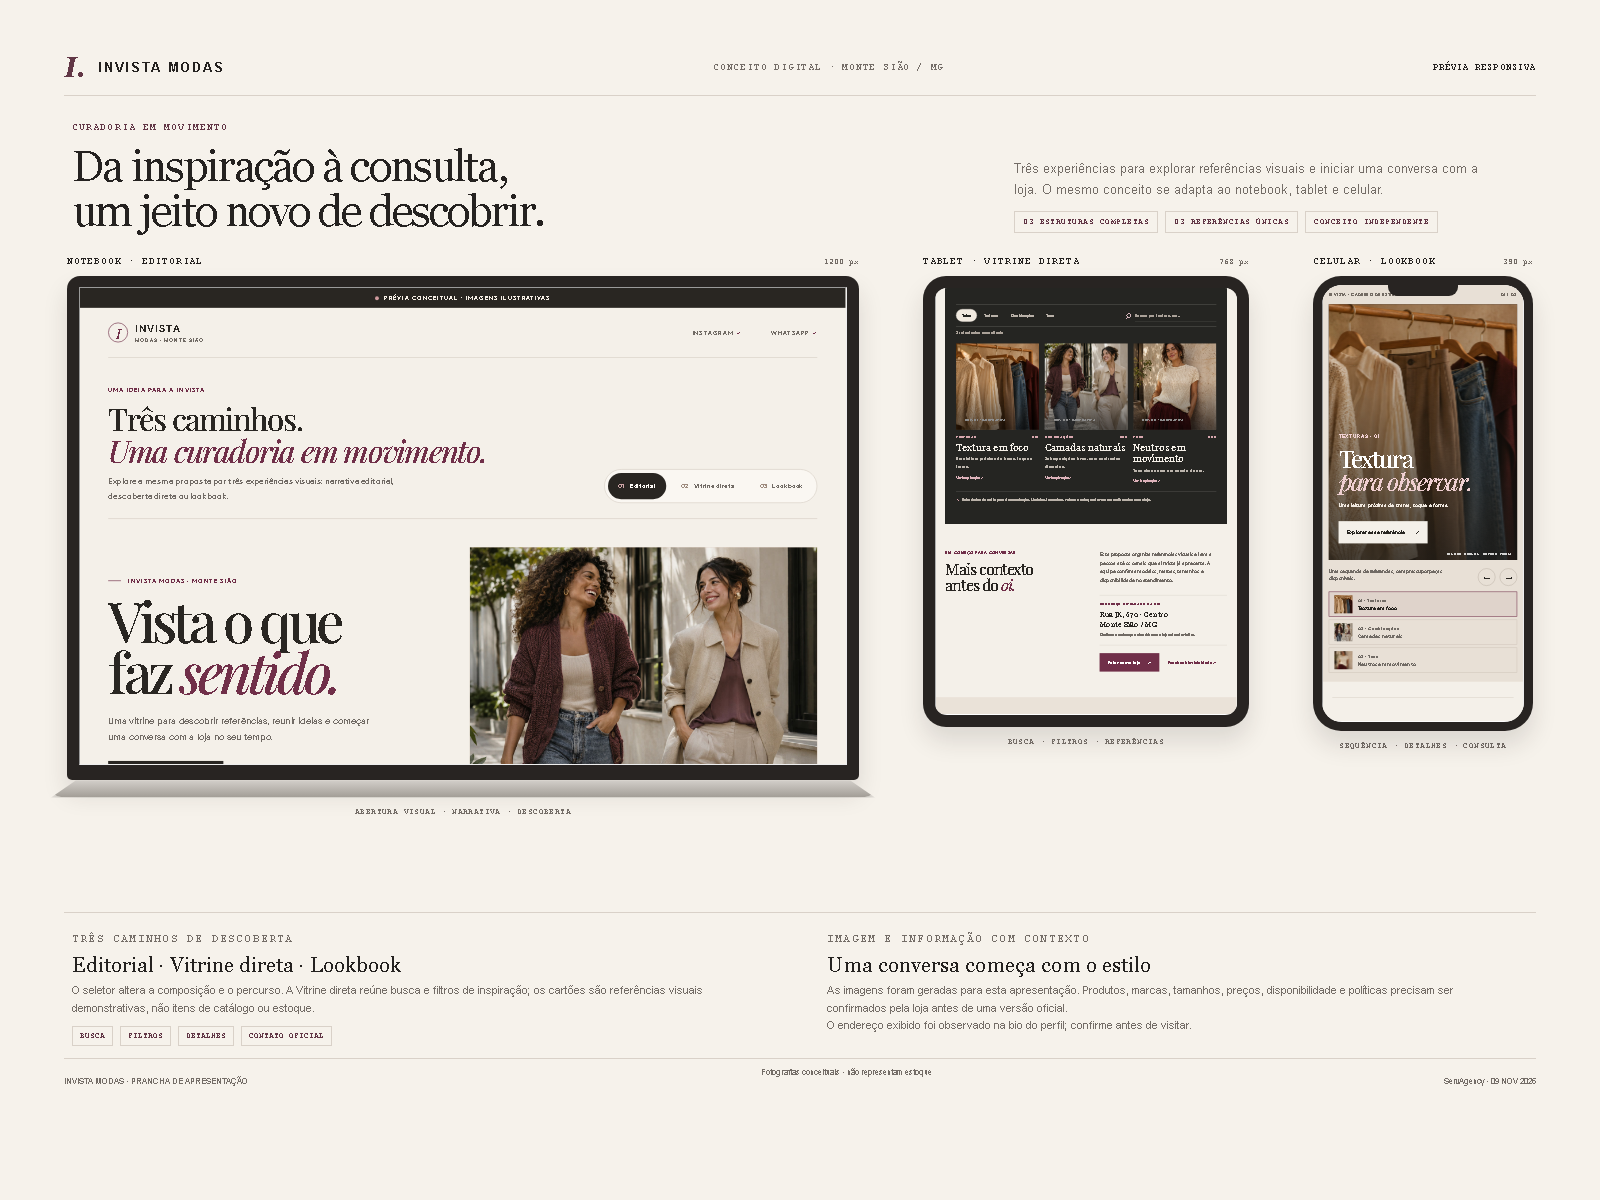
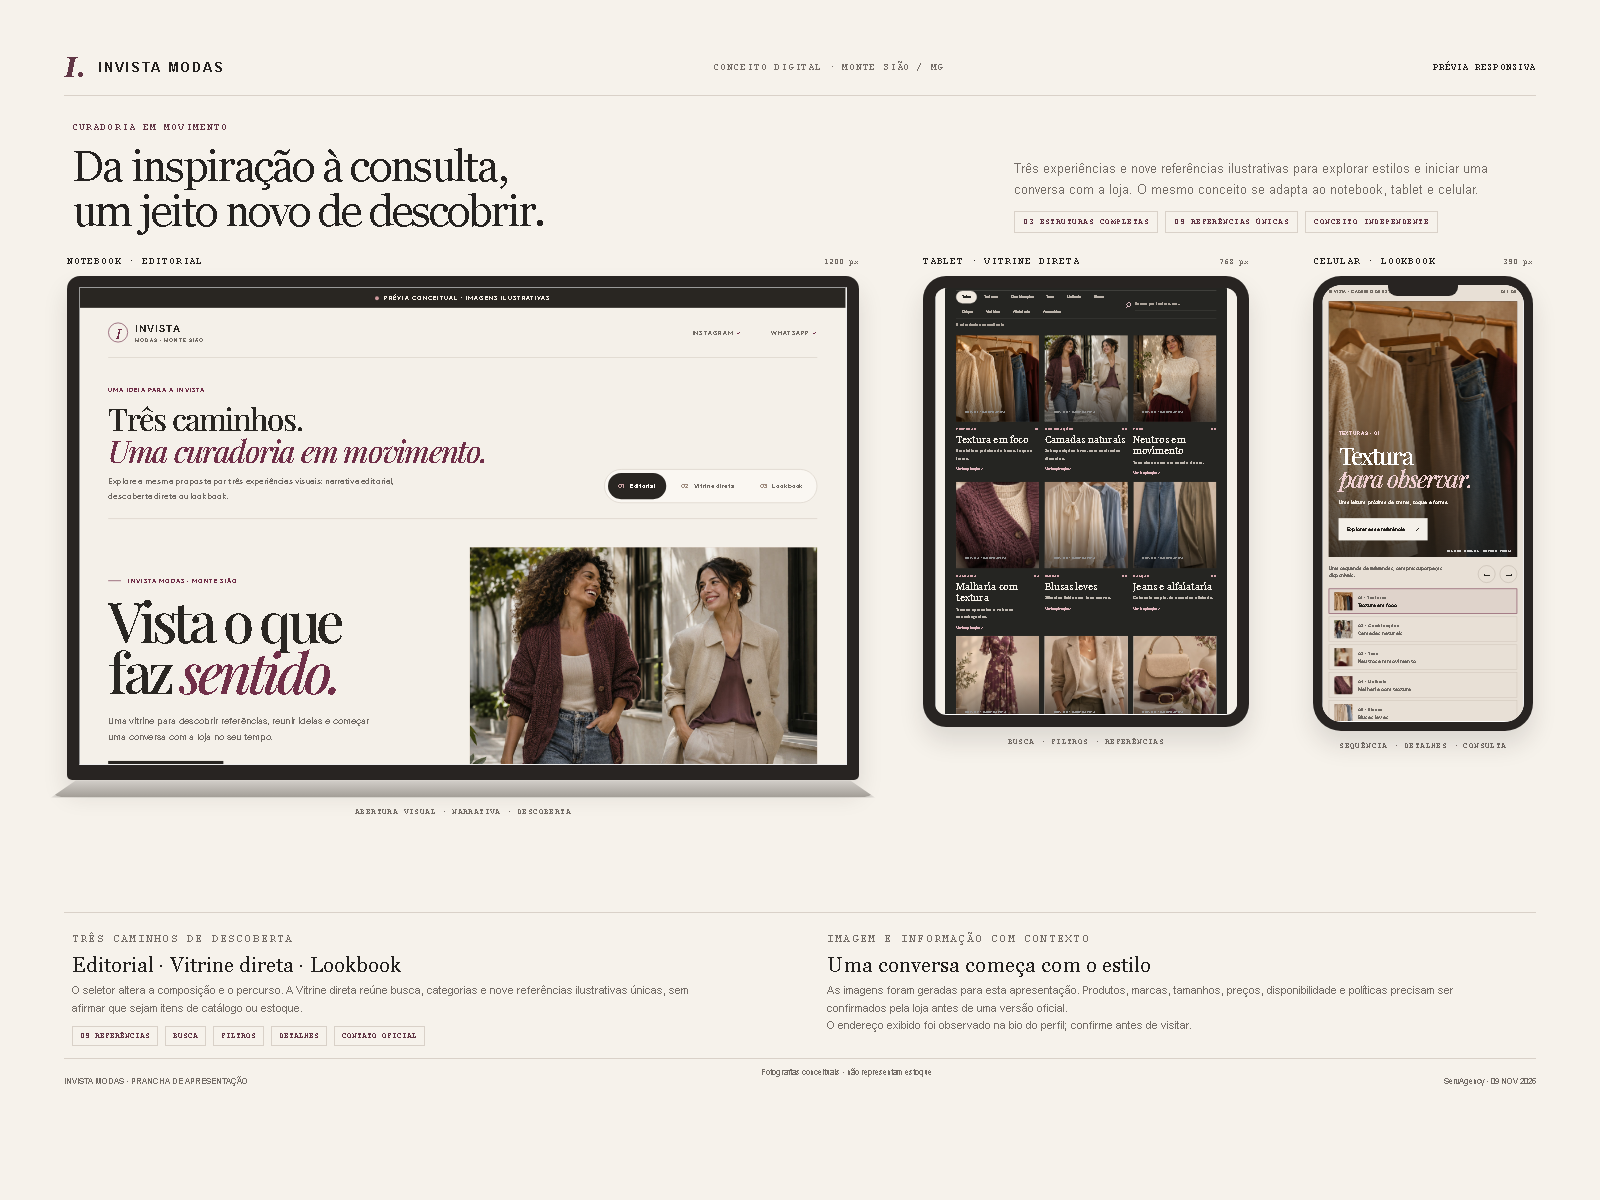
Expand Invista concept catalog

diff --git a/app.js b/app.js
@@ -5,6 +5,7 @@ const references = [
     title: "Textura em foco",
     category: "Texturas",
     image: "assets/editorial-rail.jpg",
+    sceneTitle: "Textura<br><em>para observar.</em>",
     alt: "Peças de roupa conceituais em tons creme, areia, jeans e ameixa em um cabideiro",
     description: "Um estudo visual de materiais, volumes e superfícies que podem inspirar uma escolha. A imagem é ilustrativa e não mostra produtos confirmados pela Invista.",
     short: "Uma leitura próxima de trama, toque e forma."
@@ -15,6 +16,7 @@ const references = [
     title: "Camadas naturais",
     category: "Combinações",
     image: "assets/campaign-street.jpg",
+    sceneTitle: "Camadas<br><em>em encontro.</em>",
     alt: "Duas mulheres adultas em combinações contemporâneas de tons neutros, fotografia conceitual",
     description: "Uma inspiração sobre como sobrepor peças e misturar texturas em uma composição cotidiana. A combinação não representa um look ou estoque real da loja.",
     short: "Sobreposições leves, com contrastes discretos."
@@ -25,9 +27,76 @@ const references = [
     title: "Neutros em movimento",
     category: "Tons",
     image: "assets/lookbook-portrait.jpg",
+    sceneTitle: "Neutros<br><em>em movimento.</em>",
     alt: "Mulher adulta em blusa de tricô creme e saia ameixa, imagem gerada para referência visual",
     description: "Uma referência de paleta que aproxima tons claros de um acento ameixa. Imagem gerada para este estudo, sem vínculo com peças ou marcas comercializadas pela Invista.",
     short: "Tons claros com um acento de cor."
+  },
+  {
+    id: "malharia",
+    number: "04",
+    title: "Malharia com textura",
+    category: "Malharia",
+    image: "assets/malharia.jpg",
+    sceneTitle: "Malharia<br><em>em detalhe.</em>",
+    alt: "Cardigãs conceituais em tricô ameixa e creme, composição de produto ilustrativa",
+    description: "Uma referência de malharia que destaca ponto, volume e contraste de cor. A imagem é conceitual e não confirma peças da loja.",
+    short: "Tramas aparentes e volumes aconchegantes."
+  },
+  {
+    id: "blusas",
+    number: "05",
+    title: "Blusas leves",
+    category: "Blusas",
+    image: "assets/blusas.jpg",
+    sceneTitle: "Blusas<br><em>que respiram.</em>",
+    alt: "Blusas conceituais em tons de creme e azul claro penduradas em arara",
+    description: "Uma sugestão visual de blusas fluidas em tons suaves. Modelos e disponibilidade precisam ser consultados diretamente com a Invista.",
+    short: "Silhuetas fluidas em tons suaves."
+  },
+  {
+    id: "calcas",
+    number: "06",
+    title: "Jeans e alfaiataria",
+    category: "Calças",
+    image: "assets/calcas.jpg",
+    sceneTitle: "Linhas<br><em>do cotidiano.</em>",
+    alt: "Calças conceituais jeans e de alfaiataria em composição sobre fundo claro",
+    description: "Uma referência de caimento amplo para explorar linhas casuais e mais alinhadas. Não representa produto ou grade de tamanhos confirmada.",
+    short: "Caimento amplo, do casual ao alinhado."
+  },
+  {
+    id: "vestidos",
+    number: "07",
+    title: "Vestido em ameixa",
+    category: "Vestidos",
+    image: "assets/vestidos.jpg",
+    sceneTitle: "Vestido<br><em>em destaque.</em>",
+    alt: "Vestido longo floral ameixa em manequim, imagem conceitual",
+    description: "Uma ideia de composição com estampa floral e cor profunda. A peça é ilustrativa e não confirma modelos disponíveis na loja.",
+    short: "Estampa floral com cor de presença."
+  },
+  {
+    id: "alfaiataria",
+    number: "08",
+    title: "Alfaiataria natural",
+    category: "Alfaiataria",
+    image: "assets/alfaiataria.jpg",
+    sceneTitle: "Alfaiataria<br><em>sem rigidez.</em>",
+    alt: "Composição conceitual com blazer claro e calça verde oliva",
+    description: "Uma referência de sobreposição leve com tons naturais. Confirme com a equipe da Invista se existem opções semelhantes.",
+    short: "Uma terceira peça em tons naturais."
+  },
+  {
+    id: "acessorios",
+    number: "09",
+    title: "Acessórios em harmonia",
+    category: "Acessórios",
+    image: "assets/acessorios.jpg",
+    sceneTitle: "Pequenos<br><em>acentos.</em>",
+    alt: "Bolsa, cinto e lenço em tons neutros e ameixa, composição ilustrativa",
+    description: "Uma composição conceitual de acessórios para explorar cor e acabamento. Marcas, produtos e disponibilidade não foram confirmados pela loja.",
+    short: "Acentos discretos para completar a composição."
   }
 ];
 
@@ -50,7 +119,7 @@ function cardMarkup(reference, mode = "editorial") {
     <article class="inspiration-card ${modeClass}" data-reference-card="${reference.id}">
       <button class="reference-open" type="button" data-open-ref="${reference.id}" aria-label="Abrir detalhes da inspiração: ${reference.title}">
         <span class="card-image"><img src="${reference.image}" alt="${reference.alt}" loading="lazy"><span class="card-number">REF. ${reference.number} · ILUSTRATIVA</span></span>
-        <span class="card-meta"><span>${reference.category}</span><span>0${reference.number}</span></span>
+        <span class="card-meta"><span>${reference.category}</span><span>${reference.number}</span></span>
         <span class="card-title">${reference.title}</span>
         <span class="card-desc">${reference.short}</span>
         <span class="card-action">Ver inspiração ↗</span>
@@ -158,13 +227,9 @@ function setScene(index) {
     image.alt = item.alt;
     image.classList.remove("is-changing");
   }, matchMedia("(prefers-reduced-motion: reduce)").matches ? 0 : 100);
-  document.querySelector("#lookbook-counter").textContent = `0${activeScene + 1} / 0${references.length}`;
+  document.querySelector("#lookbook-counter").textContent = `${String(activeScene + 1).padStart(2, "0")} / ${String(references.length).padStart(2, "0")}`;
   document.querySelector("#lookbook-kicker").textContent = `${item.category.toUpperCase()} · 0${activeScene + 1}`;
-  document.querySelector("#lookbook-title").innerHTML = [
-    "Textura<br><em>para observar.</em>",
-    "Camadas<br><em>em encontro.</em>",
-    "Neutros<br><em>em movimento.</em>"
-  ][activeScene];
+  document.querySelector("#lookbook-title").innerHTML = item.sceneTitle;
   document.querySelector("#lookbook-description").textContent = item.short;
   document.querySelector(".scene-copy [data-open-ref]")?.setAttribute("data-open-ref", item.id);
   document.querySelector(".scene-copy .button")?.setAttribute("aria-label", `Explorar a referência ${item.title}`);

diff --git a/arte/prancha.html b/arte/prancha.html
@@ -11,13 +11,13 @@
 <body>
 <main class="board">
  <header class="head"><span class="mark">I.</span><span class="brand">INVISTA MODAS</span><span class="context">CONCEITO DIGITAL · MONTE SIÃO / MG</span><span class="concept">PRÉVIA RESPONSIVA</span></header>
- <section class="intro"><div><p class="eyebrow">Curadoria em movimento</p><h1>Da inspiração à consulta,<br>um jeito novo de descobrir.</h1></div><div><p class="intro-copy">Três experiências para explorar referências visuais e iniciar uma conversa com a loja. O mesmo conceito se adapta ao notebook, tablet e celular.</p><div class="tags"><span>03 ESTRUTURAS COMPLETAS</span><span>03 REFERÊNCIAS ÚNICAS</span><span>CONCEITO INDEPENDENTE</span></div></div></section>
+ <section class="intro"><div><p class="eyebrow">Curadoria em movimento</p><h1>Da inspiração à consulta,<br>um jeito novo de descobrir.</h1></div><div><p class="intro-copy">Três experiências e nove referências ilustrativas para explorar estilos e iniciar uma conversa com a loja. O mesmo conceito se adapta ao notebook, tablet e celular.</p><div class="tags"><span>03 ESTRUTURAS COMPLETAS</span><span>09 REFERÊNCIAS ÚNICAS</span><span>CONCEITO INDEPENDENTE</span></div></div></section>
  <section class="devices" aria-label="Demonstração em três telas">
   <article class="device laptop"><div class="device-label"><strong>Notebook · Editorial</strong><span>1200 px</span></div><div class="shell"><div class="screen"><iframe title="Direção Editorial da Invista em notebook" src="../index.html" loading="eager"></iframe></div></div><div class="base"></div><p class="caption">ABERTURA VISUAL · NARRATIVA · DESCOBERTA</p></article>
   <article class="device tablet"><div class="device-label"><strong>Tablet · Vitrine direta</strong><span>768 px</span></div><div class="shell"><div class="screen"><iframe title="Vitrine direta da Invista em tablet" data-direction="loja" src="../index.html#referencias" loading="eager"></iframe></div></div><p class="caption">BUSCA · FILTROS · REFERÊNCIAS</p></article>
   <article class="device phone"><div class="device-label"><strong>Celular · Lookbook</strong><span>390 px</span></div><div class="shell"><span class="notch"></span><div class="screen"><iframe title="Lookbook da Invista em celular" data-direction="lookbook" src="../index.html#referencias" loading="eager"></iframe></div></div><p class="caption">SEQUÊNCIA · DETALHES · CONSULTA</p></article>
  </section>
- <section class="bottom"><div><p class="eyebrow">Três caminhos de descoberta</p><h2>Editorial · Vitrine direta · Lookbook</h2><p>O seletor altera a composição e o percurso. A Vitrine direta reúne busca e filtros de inspiração; os cartões são referências visuais demonstrativas, não itens de catálogo ou estoque.</p><div class="features"><span>BUSCA</span><span>FILTROS</span><span>DETALHES</span><span>CONTATO OFICIAL</span></div></div><div><p class="eyebrow">Imagem e informação com contexto</p><h2>Uma conversa começa com o estilo</h2><p>As imagens foram geradas para esta apresentação. Produtos, marcas, tamanhos, preços, disponibilidade e políticas precisam ser confirmados pela loja antes de uma versão oficial.</p><p class="tiny">O endereço exibido foi observado na bio do perfil; confirme antes de visitar.</p></div></section>
+ <section class="bottom"><div><p class="eyebrow">Três caminhos de descoberta</p><h2>Editorial · Vitrine direta · Lookbook</h2><p>O seletor altera a composição e o percurso. A Vitrine direta reúne busca, categorias e nove referências ilustrativas únicas, sem afirmar que sejam itens de catálogo ou estoque.</p><div class="features"><span>09 REFERÊNCIAS</span><span>BUSCA</span><span>FILTROS</span><span>DETALHES</span><span>CONTATO OFICIAL</span></div></div><div><p class="eyebrow">Imagem e informação com contexto</p><h2>Uma conversa começa com o estilo</h2><p>As imagens foram geradas para esta apresentação. Produtos, marcas, tamanhos, preços, disponibilidade e políticas precisam ser confirmados pela loja antes de uma versão oficial.</p><p class="tiny">O endereço exibido foi observado na bio do perfil; confirme antes de visitar.</p></div></section>
  <footer class="footer"><span>INVISTA MODAS · PRANCHA DE APRESENTAÇÃO</span><span>Fotografias conceituais · não representam estoque</span><span>ServAgency · 09 NOV 2026</span></footer>
 </main>
 <script>

diff --git a/index.html b/index.html
@@ -70,18 +70,18 @@
 
         <section class="editorial-selection section-wrap" data-collection-target data-anchor="explorar">
           <div class="section-heading">
-            <div><p class="eyebrow">TRÊS REFERÊNCIAS · SEM REPETIÇÕES</p><h2>Um olhar para<br><em>combinar.</em></h2></div>
-            <p>Uma seleção ilustrativa de texturas e combinações. Cada imagem é conceitual e não confirma produto, marca ou disponibilidade na Invista.</p>
+            <div><p class="eyebrow">NOVE REFERÊNCIAS · SEM REPETIÇÕES</p><h2>Um olhar para<br><em>combinar.</em></h2></div>
+            <p>Explore nove referências ilustrativas por categoria. Cada imagem é conceitual e não confirma produto, marca ou disponibilidade na Invista.</p>
           </div>
           <div class="editorial-grid" id="editorial-cards"></div>
         </section>
       </section>
 
       <section class="design-view direct-view" id="view-loja" role="tabpanel" aria-labelledby="tab-loja" data-design-view="loja" hidden>
-        <div class="direct-topline"><span>INVISTA MODAS</span><span>REFERÊNCIAS VISUAIS · 01—03</span></div>
+        <div class="direct-topline"><span>INVISTA MODAS</span><span>REFERÊNCIAS VISUAIS · 01—09</span></div>
         <section class="direct-intro" aria-labelledby="direct-title">
           <div><p class="eyebrow">ENCONTRE UM CAMINHO</p><h2 id="direct-title">Qual estilo<br>chama <em>você?</em></h2></div>
-          <p>Busque uma referência ou explore por sensação. O protótipo demonstra uma navegação possível sem inventar catálogo ou estoque.</p>
+          <p>Explore nove referências únicas por categoria, filtre por peça e busque por estilo. Modelos, tamanhos e disponibilidade ainda precisam ser confirmados com a loja.</p>
         </section>
         <section class="direct-catalog" data-collection-target data-anchor="explorar" aria-label="Explorar referências ilustrativas">
           <div class="catalog-toolbar">
@@ -97,7 +97,7 @@
 
       <section class="design-view lookbook-view" id="view-lookbook" role="tabpanel" aria-labelledby="tab-lookbook" data-design-view="lookbook" hidden>
         <section class="lookbook-stage" data-collection-target aria-labelledby="lookbook-title">
-          <div class="lookbook-label"><span>INVISTA · CADERNO DE ESTILO</span><span id="lookbook-counter">01 / 03</span></div>
+          <div class="lookbook-label"><span>INVISTA · CADERNO DE ESTILO</span><span id="lookbook-counter">01 / 09</span></div>
           <div class="lookbook-scene" id="lookbook-scene">
             <img id="lookbook-image" src="assets/campaign-street.jpg" alt="Referência visual conceitual de moda">
             <div class="scene-shade"></div>

diff --git a/README.md b/README.md
@@ -13,12 +13,13 @@ Abra `index.html` diretamente ou sirva esta pasta localmente com `python -m http
 ## Experiência
 
 - Três estruturas completas: Editorial, Vitrine direta e Lookbook.
-- Busca e filtros de referências conceituais sem repetir itens.
+- Nove referências únicas em nove categorias, com busca e filtros.
+- Construção mobile first, com cartões em duas colunas no celular e filtros roláveis por toque.
 - Detalhe acessível para cada referência e links para os canais listados na bio oficial.
 - Prancha visual responsiva em `arte/prancha.html`; imagem final em `arte/invista-modas-prancha.png`.
 
 ## Limites
 
-Esta página é um conceito de apresentação, não um site oficial nem uma loja funcional. Imagens são geradas e itens são inspirações visuais; não correspondem a catálogo, estoque, preço, marca ou disponibilidade da Invista. O atalho do WhatsApp é o link público da bio e não revela o telefone. Não há checkout, estoque, pagamentos nem CMS.
+Esta página é um conceito de apresentação, não um site oficial nem uma loja funcional. As nove imagens são geradas e as referências são inspirações visuais; não correspondem a catálogo, estoque, preço, marca ou disponibilidade da Invista. O atalho do WhatsApp é o link público da bio e não revela o telefone. Não há checkout, estoque, pagamentos nem CMS.
 
 Leia `BRIEF_DO_PROJETO.md` e `ASSET_CREDITS.md` antes de apresentar.

diff --git a/ASSET_CREDITS.md b/ASSET_CREDITS.md
@@ -2,9 +2,10 @@
 
 ## Imagens conceituais geradas para este protótipo
 
-- `assets/campaign-street.png` — fotografia editorial conceitual com duas mulheres adultas em looks casuais contemporâneos; gerada para esta demonstração.
-- `assets/editorial-rail.png` — arara conceitual com peças diversas e texturas; gerada para esta demonstração.
-- `assets/lookbook-portrait.png` — retrato editorial conceitual; gerado para esta demonstração.
+- `assets/campaign-street.jpg` — fotografia editorial conceitual com duas mulheres adultas em looks casuais contemporâneos; gerada para esta demonstração.
+- `assets/editorial-rail.jpg` — arara conceitual com peças diversas e texturas; gerada para esta demonstração.
+- `assets/lookbook-portrait.jpg` — retrato editorial conceitual; gerado para esta demonstração.
+- `assets/malharia.jpg`, `assets/blusas.jpg`, `assets/calcas.jpg`, `assets/vestidos.jpg`, `assets/alfaiataria.jpg` e `assets/acessorios.jpg` — seis referências de vestuário e acessórios geradas para esta demonstração.
 
 Estas imagens não são fotos da Invista, de clientes, de marcas reais ou de produtos disponíveis. Não usar como prova de estoque.
 
